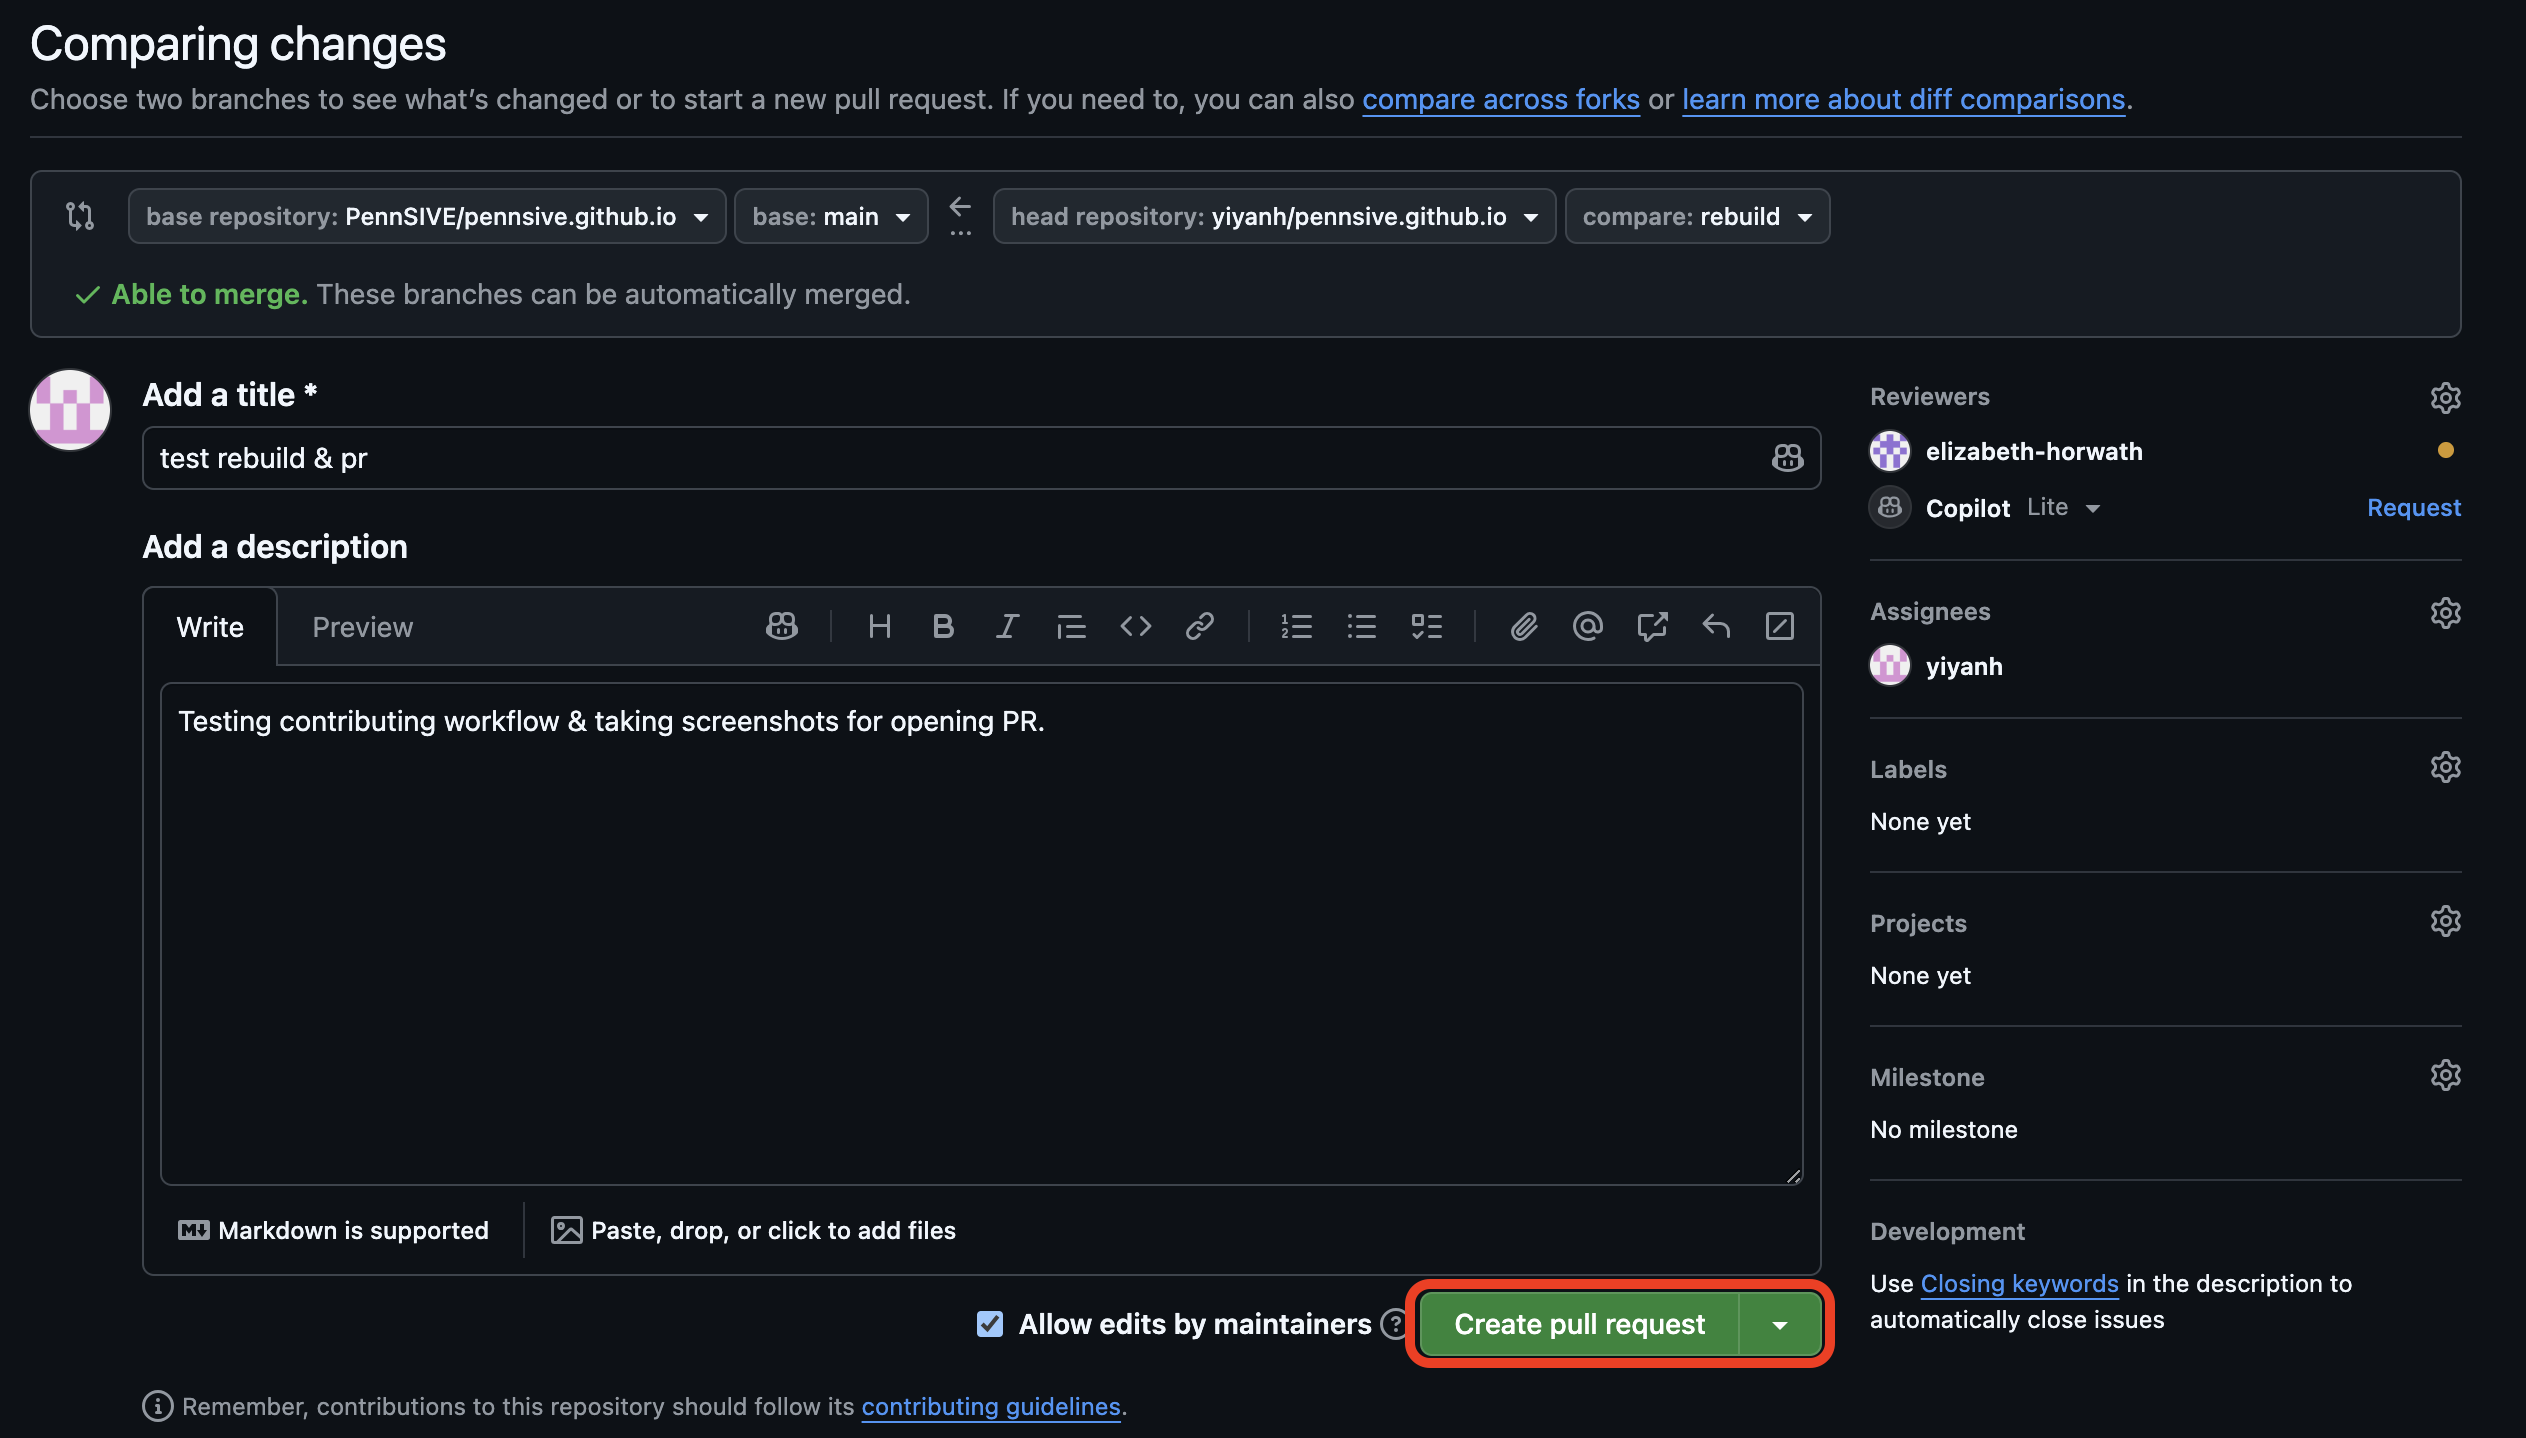
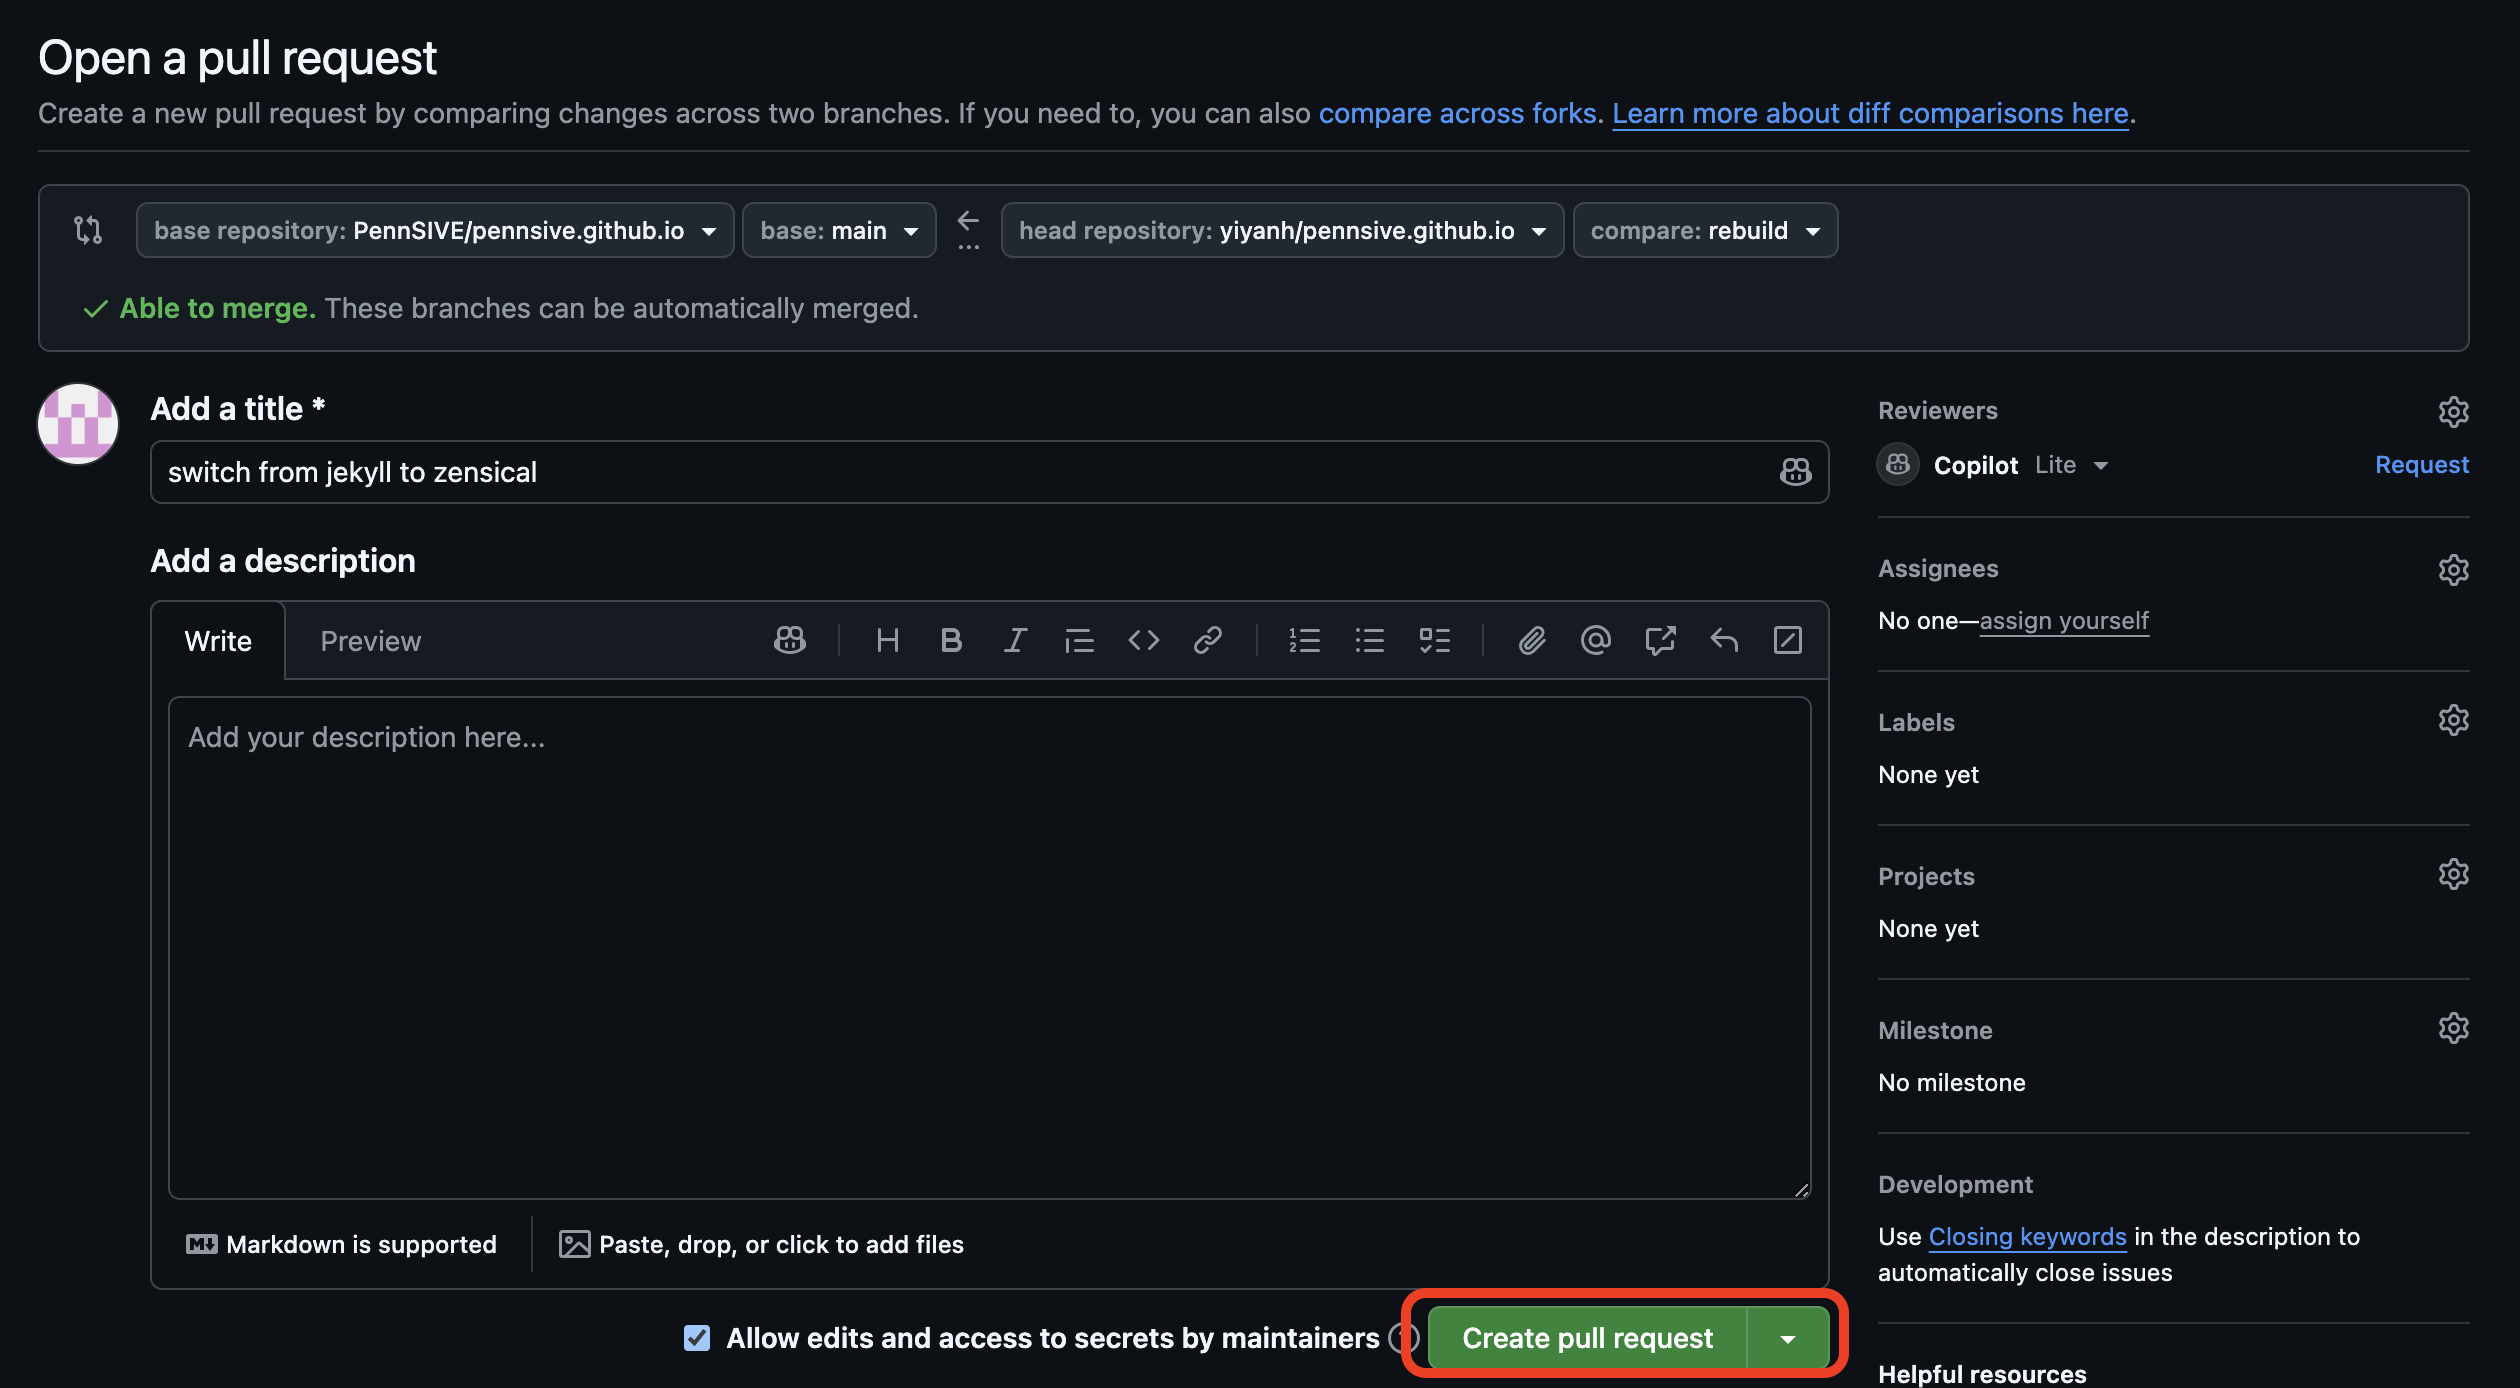
update contributing

diff --git a/docs/contributing.md b/docs/contributing.md
@@ -145,13 +145,21 @@ Then open a pull request from your fork on GitHub:
 
 ![Starting a pull request](images/contributing/open-pr.png)
 
-Check that your branch is being compared against `pennsive/pennsive.github.io`'s `main`, describe your changes, and submit:
+Make sure that your branch is being compared against `pennsive/pennsive.github.io`'s `main`. If you can't see your branch as an option, click on "compare across forks":
+
+![Compare across forks](images/contributing/compare-forks.png)
+
+Click on "create pull request" after you have selected the correct branches:
+
+![Select branches](images/contributing/select-branches.png)
+
+Then, describe your changes, and submit:
 
 ![Preparing a pull request](images/contributing/create-pr.png)
 
-A maintainer will review your PR and may ask for changes. 
-
 ![Pull Request Submitted](images/contributing/pr-opened.png)
+
+The wiki group will get notified of your PR and review it. 
 
 If you need to make changes before the PR gets reviewed, just commit and push to your branch again. The PR will update automatically.
 
